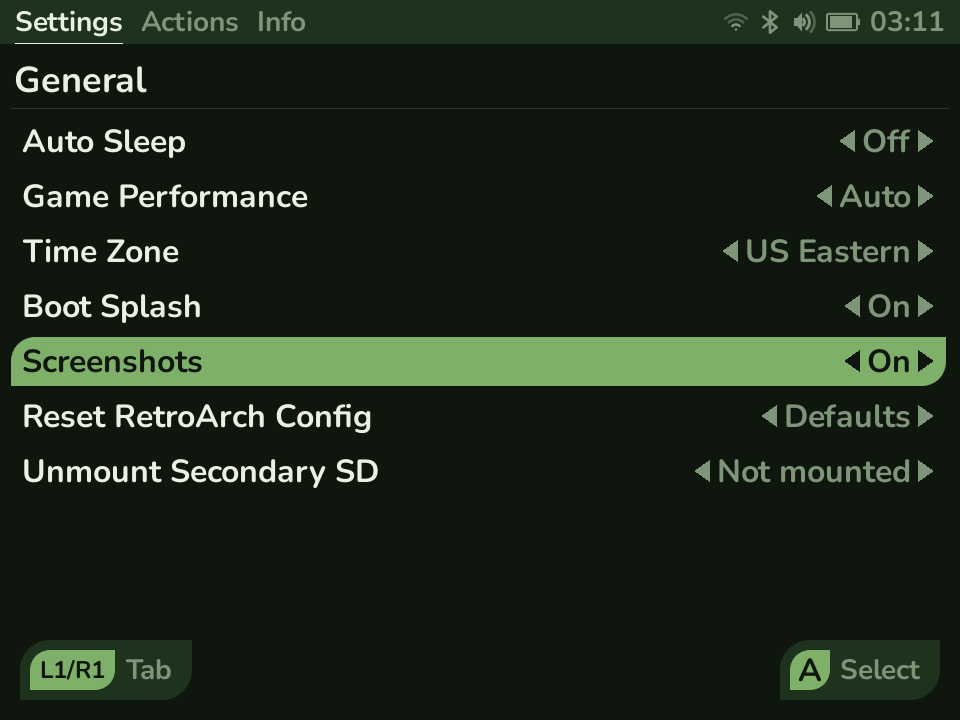
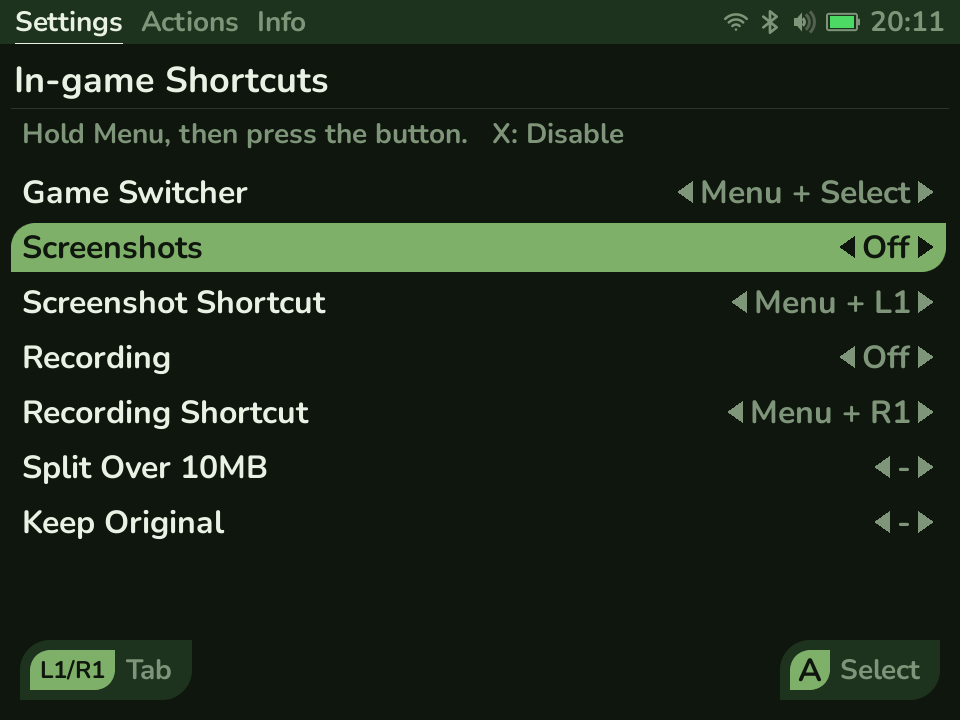
Recapture the settings screenshot on its new page
The image was of the General page, two moves out of date: the
Screenshots row went to Controls & Feedback, then to In-game Shortcuts.
Its alt text named Auto Sleep, Game Performance, Time Zone and Boot
Splash as neighbours, none of which are on the page any more.

Captured on a device at default bindings, so the three shortcut rows
read Menu + Select, Menu + L1 and Menu + R1 rather than test values.

diff --git a/src/content/docs/guide/screenshots.md b/src/content/docs/guide/screenshots.md
@@ -14,7 +14,7 @@ Screenshots are off by default. Turn them on in **Settings → Controls & Feedba
 In-game Shortcuts**, on the **Screenshots** row. Once on, the capture combo works
 everywhere until you switch it off again.
 
-![The General settings page with the Screenshots row highlighted and set to On, among rows for Auto Sleep, Game Performance, Time Zone, and Boot Splash](/screenshot_settings.png)
+![The In-game Shortcuts settings page with the Screenshots row highlighted and set to Off, above a Screenshot Shortcut row reading Menu + L1, alongside Game Switcher, Recording, and the recording options](/screenshot_settings.png)
 
 ## Taking a screenshot
 
